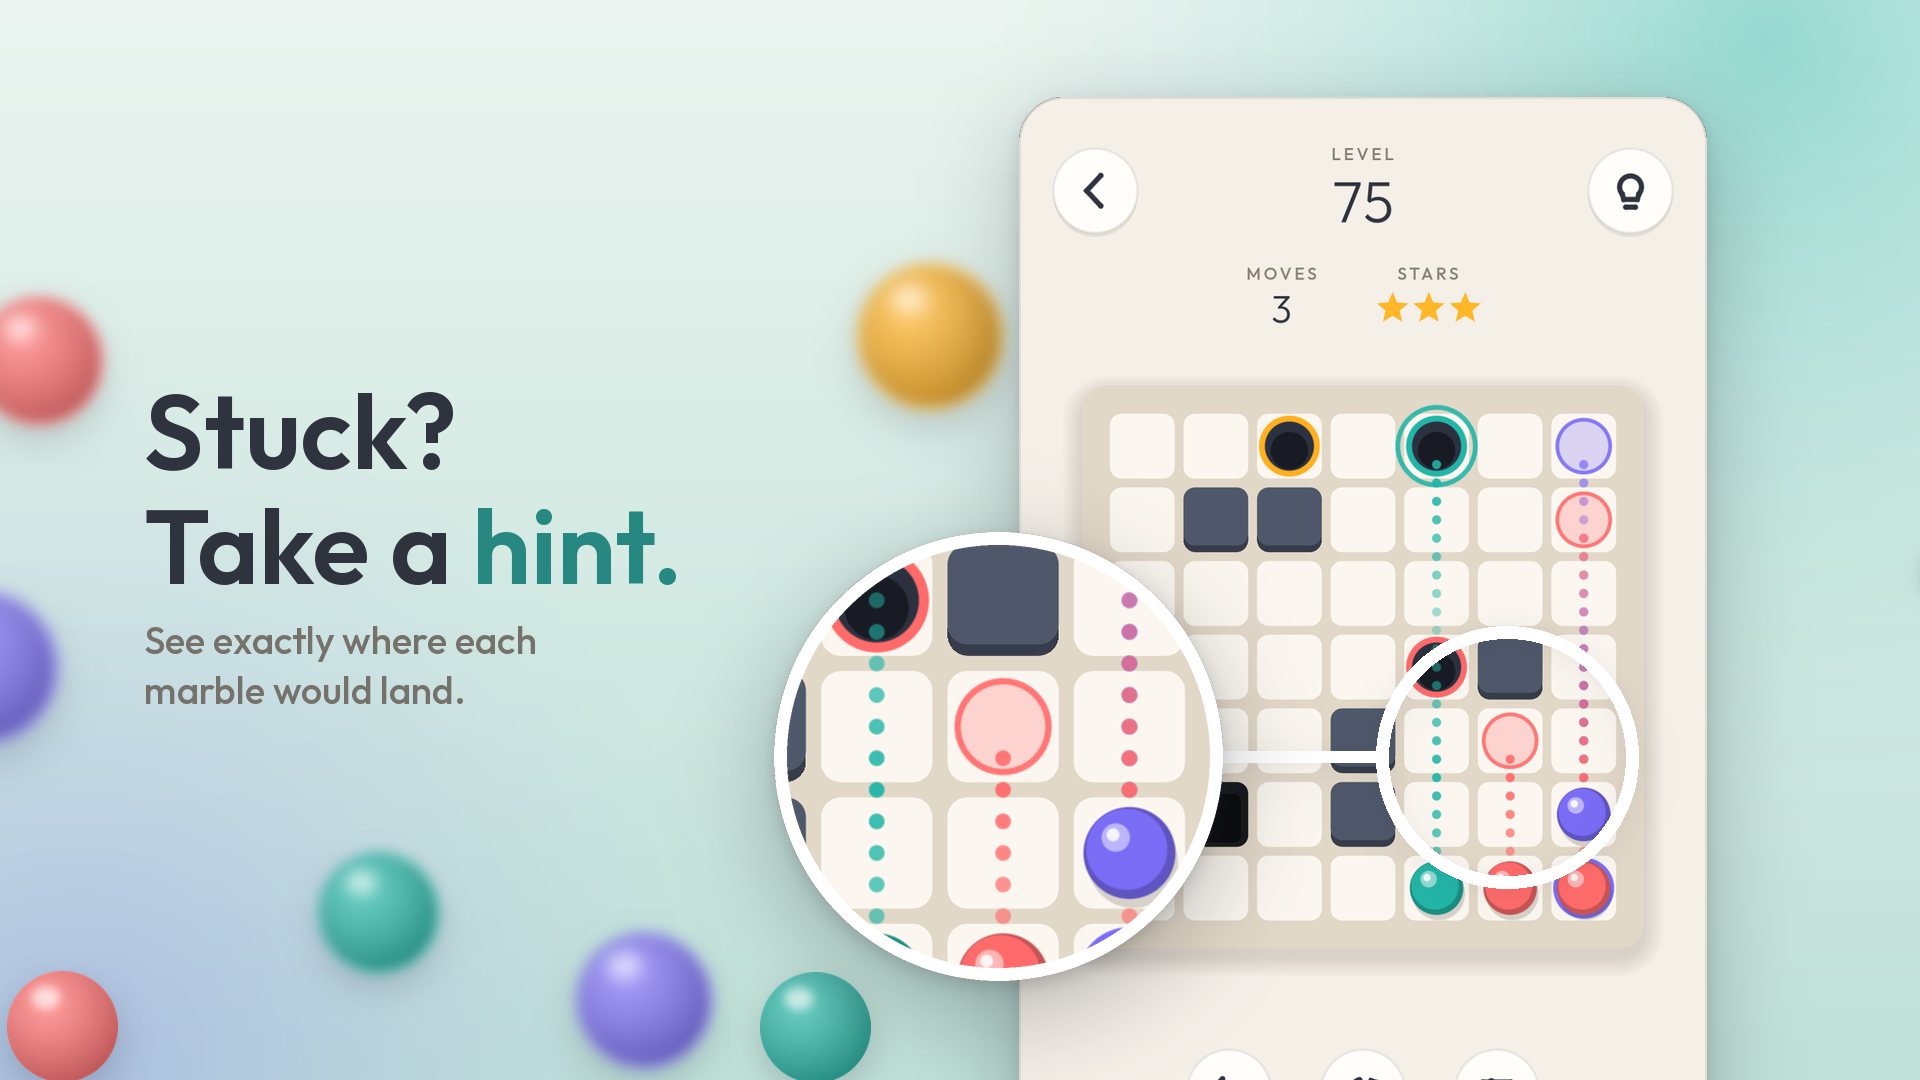
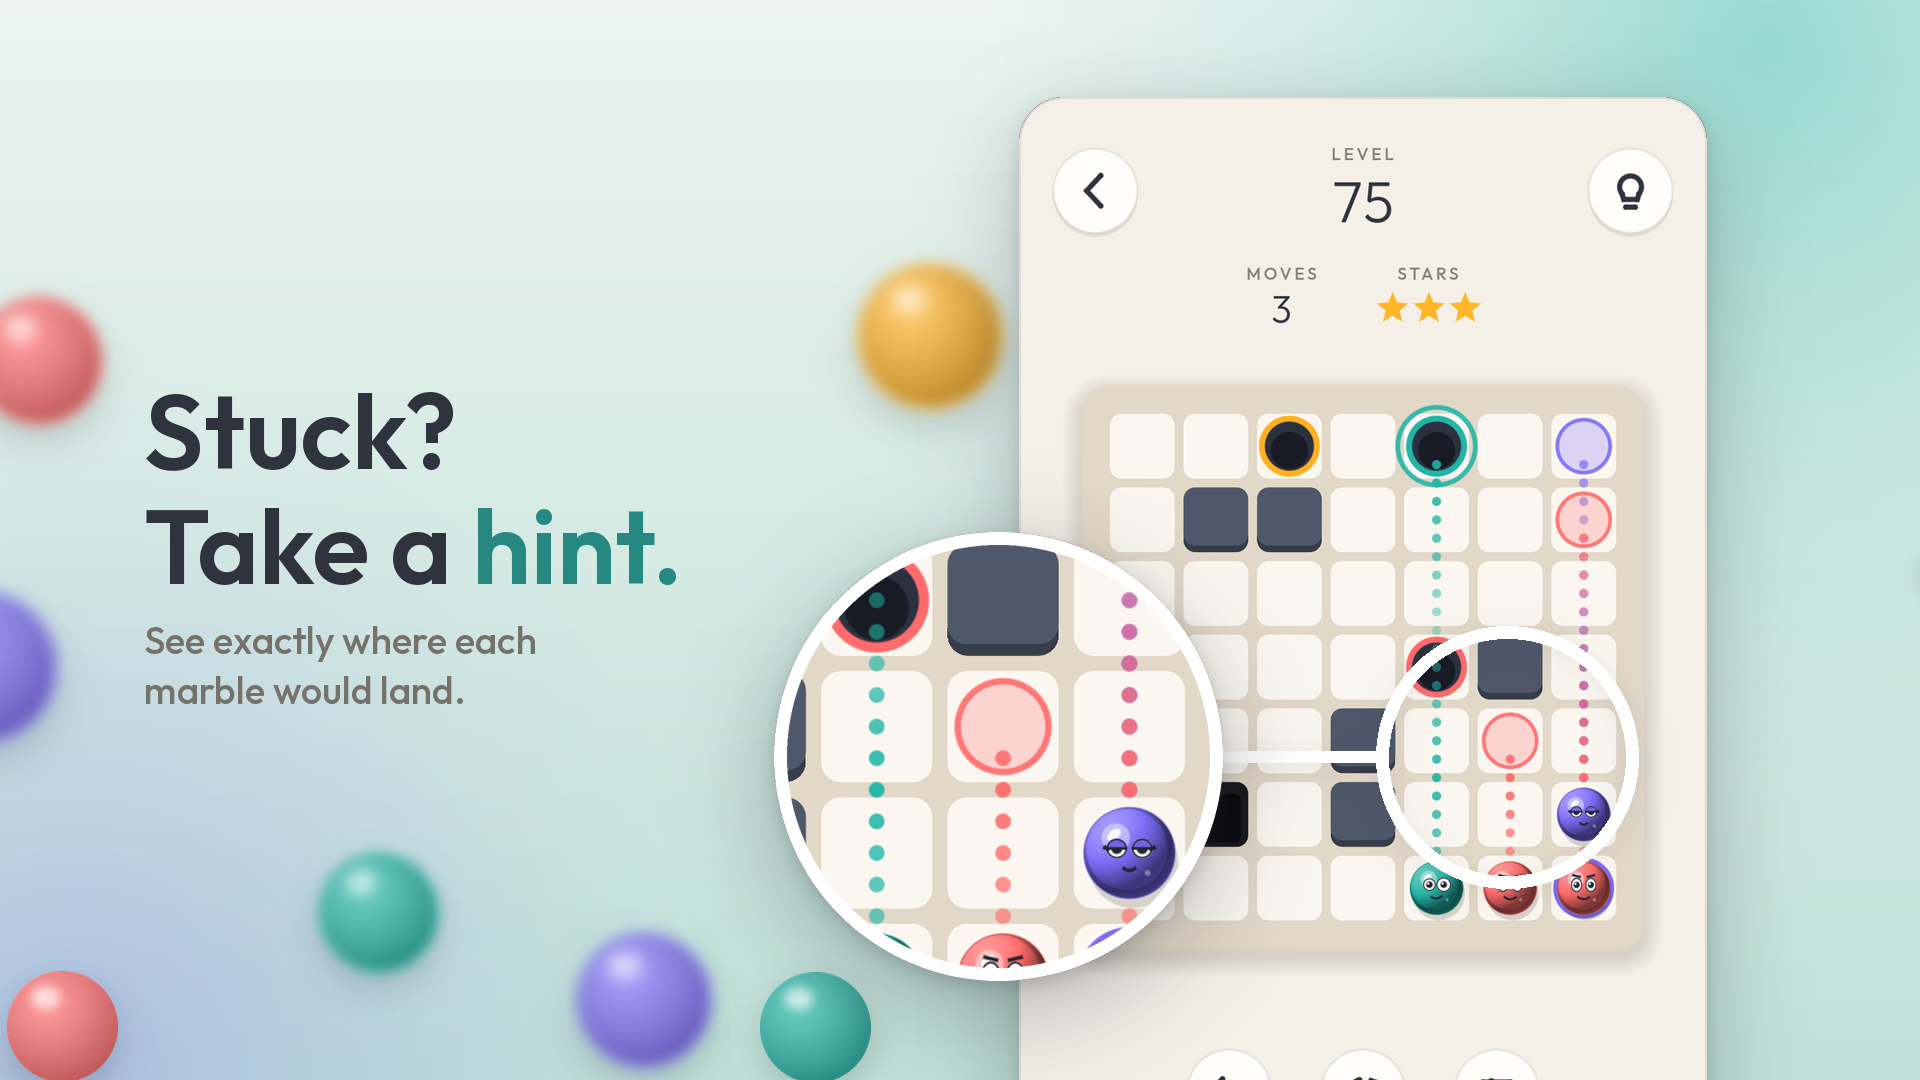
Bring the store listing and art up to 1.5.0

Changed region(s): [[0.7188, 0.7333, 0.8438, 0.8556], [0.5625, 0.7333, 0.625, 0.825], [0.5, 0.8556, 0.5312, 0.9167]]

diff --git a/assets/store/listing.md b/assets/store/listing.md
@@ -6,11 +6,11 @@ Generated by kit/tools/store/compose.py from store/store.json. Limits are checke
 
 Plumb: Marble Tilt Maze Puzzle
 
-## Short description (80 / 80)
+## Short description (79 / 80)
 
-Tilt the maze and every marble rolls. Get each ball into the hole of its colour.
+Tilt the maze, roll each ball into the hole of its colour. A cute logic puzzle.
 
-## Full description (1348 / 4000)
+## Full description (1939 / 4000)
 
 Tilt the maze and every marble rolls at once. Get each ball into the hole of its own colour, and keep them all out of the pits.
 
@@ -18,20 +18,25 @@ Plumb is a calm logic puzzle about gravity. Swipe to tilt the board and every ma
 
 One gesture moves everything, which is what makes four directions surprisingly deep: every move is a small chain of consequences to read before you make it.
 
-- Every level has a solution, scored against the fewest moves possible, and none is easier than the one before
-- Three stars for the fewest moves, with a hint that shows where every marble would land
-- Chapters that each add a new rule: gates, portals, springs, magnets, glass and more
+The marbles have faces, and feelings. Each colour is its own character. They watch your finger, go wide-eyed as they roll, worry near a pit, hop for joy when they get home and pop back out in party hats when you earn three stars. Prefer plain marbles? Switch faces off in Settings.
+
+- Every level has a solution, with three stars for the fewest moves possible
+- A hint that shows where every marble would land
+- Chapters that each bring a rule of their own: bouncy blocks that send a marble straight back, gates, portals, springs, magnets, glass and more
+- A gentle main path all the way through, and a Hard section, open from the start, for when you want a real challenge
+- Every win is a party: confetti, slamming stars and a cheer, and a bigger one when you finish a chapter
 - A daily puzzle, the same for everyone, with a clock, a streak to keep and a calendar of past days
 - Sign in with Play Games for achievements, leaderboards and progress that follows you to a new phone
-- Every win makes a card to share or save
+- A card to share or save after every win
 - Colour themes and marble sets, each in light and dark
+- Switch on Pets and the walls become sleepy cats and dogs that wake when a marble bumps into them
 - Undo and restart any time. No timers on the levels, no lives, no energy
 - A quiet, tactile look and an ambient soundtrack, with sound, music and vibration you can switch off
 - Plays offline
 
 ## Release notes
 
-Chapters with a new rule each, a card to share every win, colour themes and a new icon.
+Gentler later levels, bouncy blocks, a Hard section, marbles with faces and a party for every win.
 
 ## Category and tags
 
